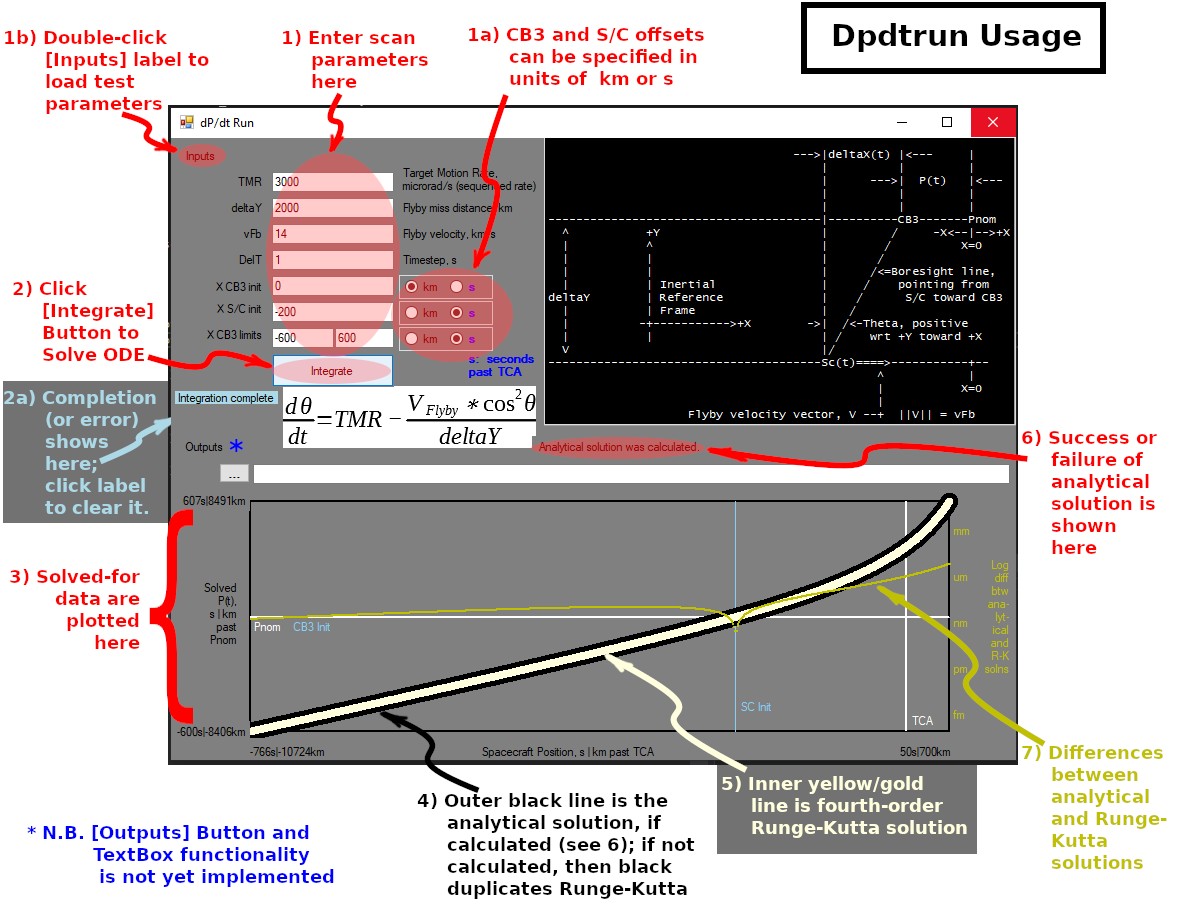
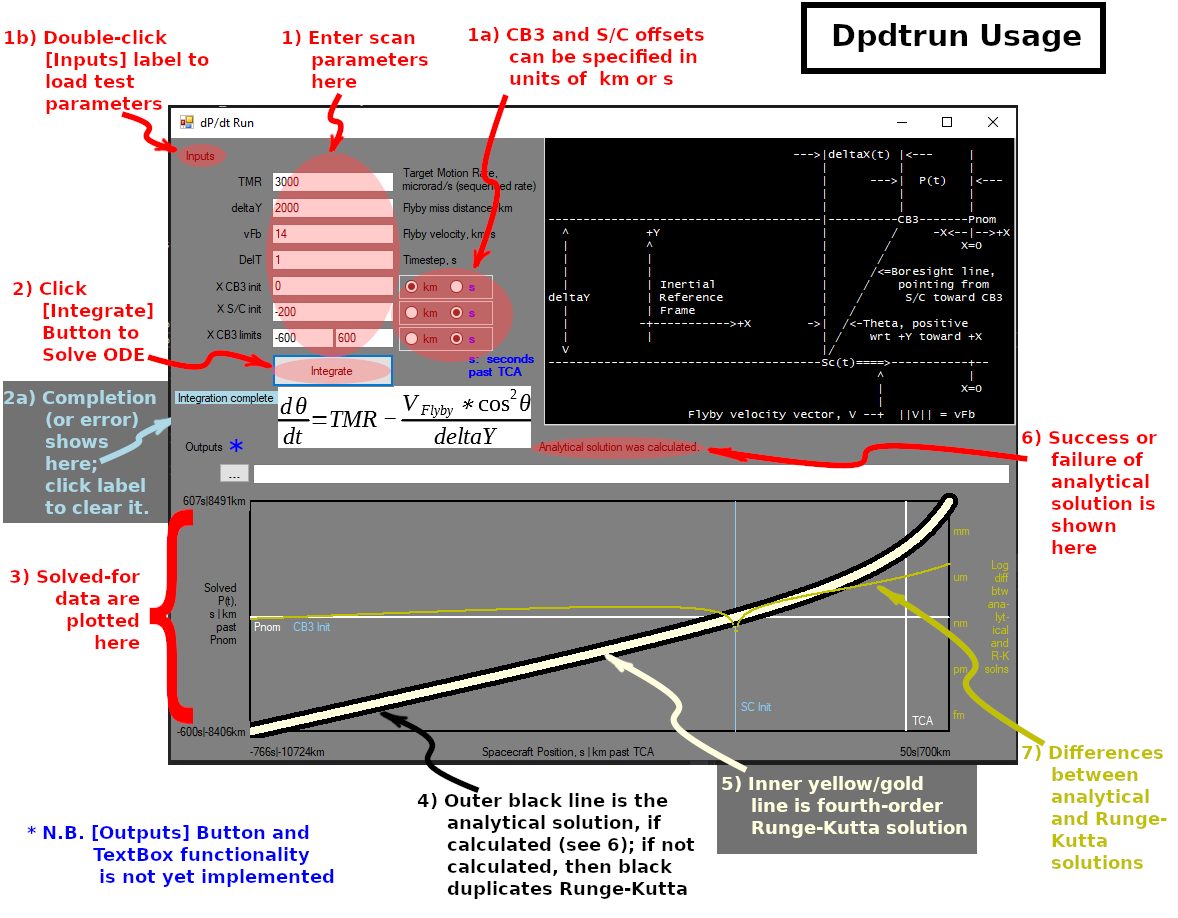
Shifted controls around a little bit more

Changed region(s): [[0.2139, 0.366, 0.4584, 0.488], [0.8251, 0.0915, 0.8862, 0.1525]]

diff --git a/src/Dpdtrun/DpdtrunUI.Designer.cs b/src/Dpdtrun/DpdtrunUI.Designer.cs
@@ -474,7 +474,7 @@ namespace DpdtrunUI
             // 
             this.flowLayoutPanel1.BackgroundImage = global::Dpdtrun.Properties.Resources.dpdt_formula;
             this.flowLayoutPanel1.BackgroundImageLayout = System.Windows.Forms.ImageLayout.None;
-            this.flowLayoutPanel1.Location = new System.Drawing.Point(112, 248);
+            this.flowLayoutPanel1.Location = new System.Drawing.Point(107, 248);
             this.flowLayoutPanel1.Name = "flowLayoutPanel1";
             this.flowLayoutPanel1.Size = new System.Drawing.Size(253, 62);
             this.flowLayoutPanel1.TabIndex = 1203;
@@ -528,7 +528,7 @@ namespace DpdtrunUI
             // 
             // label2
             // 
-            this.label2.Location = new System.Drawing.Point(354, 301);
+            this.label2.Location = new System.Drawing.Point(368, 301);
             this.label2.Name = "label2";
             this.label2.Size = new System.Drawing.Size(136, 20);
             this.label2.TabIndex = 1208;
